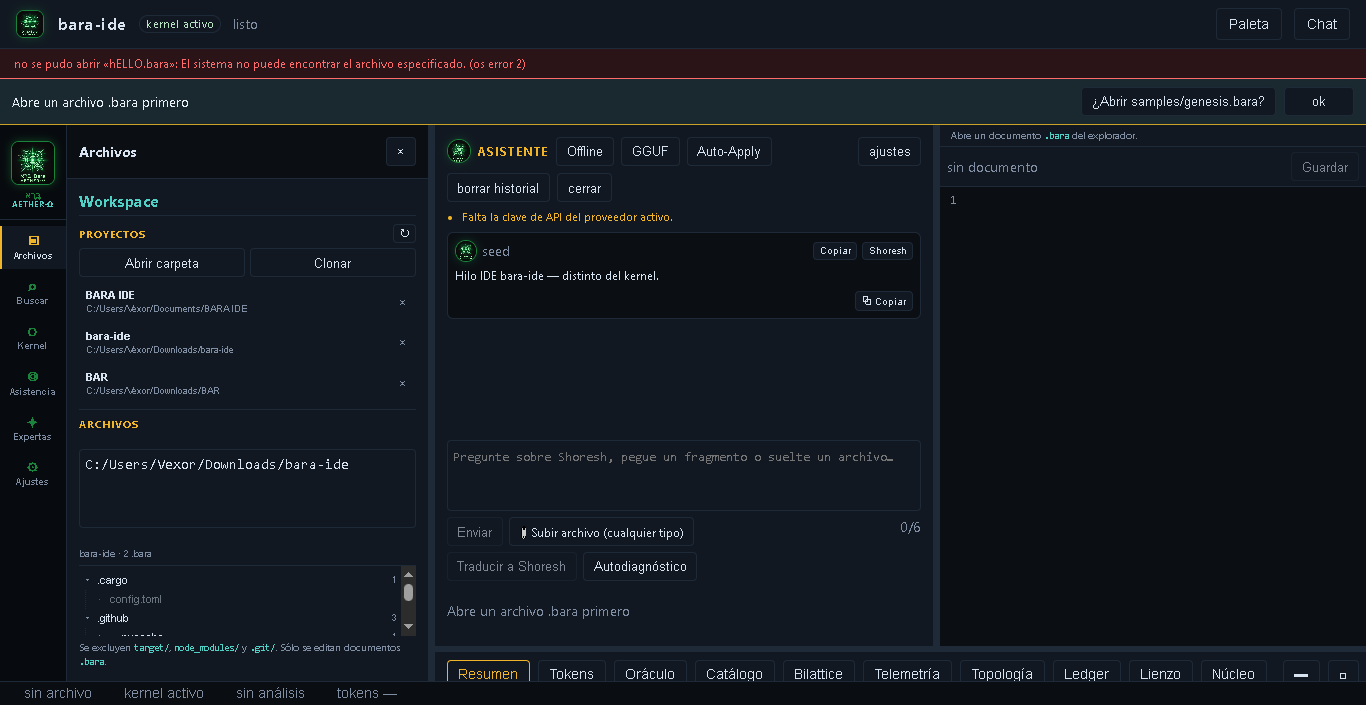
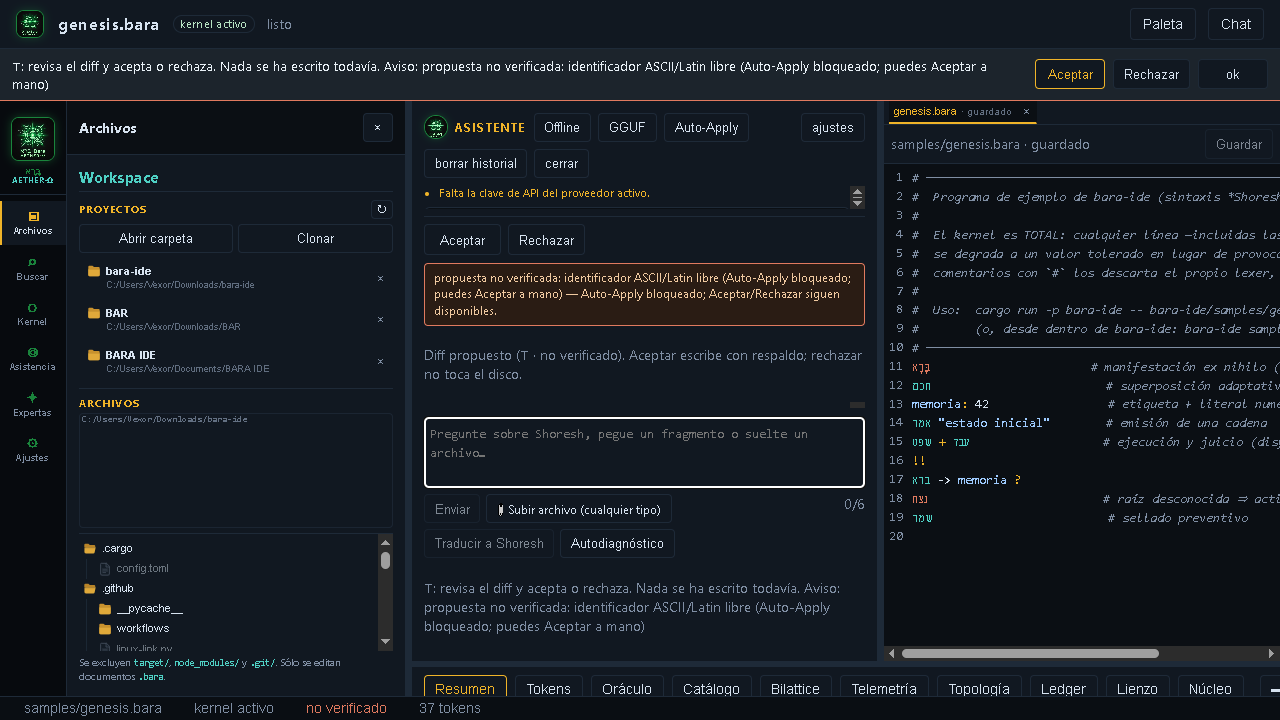
style(workspace): iconos carpeta/archivo al mockup Jose
PROYECTOS y ARCHIVOS usan SVG ámbar/documento en brand/; tipografía y
path secundario alineados al mockup. Capturas Tauri a–d con kernel activo.

diff --git a/web/src/styles.css b/web/src/styles.css
@@ -777,17 +777,37 @@ body,
   display: flex;
   flex-direction: column;
   align-items: flex-start;
-  gap: 1px;
+  gap: 2px;
   text-align: left;
-  padding: 0.35rem 0.45rem;
+  padding: 0.4rem 0.5rem;
   border: 1px solid transparent;
+  border-radius: 4px;
   background: transparent;
   color: var(--text);
-  font-size: 0.75rem;
+  font-size: 0.78rem;
+  line-height: 1.25;
+}
+
+.shelf-main {
+  display: flex;
+  align-items: center;
+  gap: 0.4rem;
+  min-width: 0;
+  width: 100%;
+}
+
+.ws-icon {
+  flex: 0 0 14px;
+  width: 14px;
+  height: 14px;
+  display: block;
+  object-fit: contain;
 }
 
 .shelf-name {
   font-weight: 600;
+  font-size: 0.8rem;
+  letter-spacing: 0.01em;
   max-width: 100%;
   overflow: hidden;
   text-overflow: ellipsis;
@@ -795,11 +815,15 @@ body,
 }
 
 .shelf-path {
-  font-size: 0.65rem;
+  font-size: 0.62rem;
+  line-height: 1.2;
+  padding-left: calc(14px + 0.4rem);
   max-width: 100%;
   overflow: hidden;
   text-overflow: ellipsis;
   white-space: nowrap;
+  opacity: 0.72;
+  color: var(--muted);
 }
 
 .shelf-active,
@@ -832,9 +856,9 @@ body,
 .ws-section-head h2 {
   margin: 0;
   flex: 1;
-  font-size: 0.72rem;
+  font-size: 0.7rem;
   font-weight: 700;
-  letter-spacing: 0.1em;
+  letter-spacing: 0.12em;
   color: var(--accent);
   text-transform: uppercase;
 }
@@ -987,12 +1011,24 @@ body,
 }
 
 .workspace-root {
-  display: flex;
-  gap: 0.3rem;
+  display: block;
+  margin: 0;
+  padding: 0 0.15rem;
+  font-size: 0.62rem;
+  line-height: 1.3;
+  color: var(--muted);
+  opacity: 0.75;
+  overflow: hidden;
+  text-overflow: ellipsis;
+  white-space: nowrap;
+}
+
+.workspace-root.path {
+  font-size: 0.62rem;
 }
 
 .workspace-root .path {
-  font-size: 0.72rem;
+  font-size: 0.62rem;
 }
 
 .workspace-root button {
@@ -1034,22 +1070,23 @@ body,
 }
 
 .file-tree .file-tree {
-  margin-left: 0.45rem;
-  padding-left: 0.4rem;
-  border-left: 1px dotted var(--line);
+  margin-left: 0.55rem;
+  padding-left: 0.45rem;
+  border-left: 1px solid color-mix(in srgb, var(--line) 80%, transparent);
 }
 
 .tree-row {
   display: flex;
   align-items: center;
-  gap: 0.3rem;
+  gap: 0.4rem;
   width: 100%;
-  padding: 0.18rem 0.25rem;
+  padding: 0.22rem 0.3rem;
   border: 0;
-  border-radius: 3px;
+  border-radius: 4px;
   background: transparent;
   color: var(--text);
-  font-size: 0.75rem;
+  font-size: 0.78rem;
+  line-height: 1.25;
   text-align: left;
 }
 
@@ -1063,6 +1100,10 @@ body,
   opacity: 0.45;
 }
 
+.tree-row .ws-icon {
+  flex: 0 0 14px;
+}
+
 .tree-glyph {
   flex: 0 0 0.8rem;
   color: var(--muted);
@@ -1074,7 +1115,11 @@ body,
 }
 
 .tree-file.active {
-  background: #1b2a3b;
+  background: color-mix(in srgb, var(--brand-green) 14%, #1b2a3b);
+  color: var(--text);
+}
+
+.tree-file.active .tree-name {
   color: var(--accent);
 }
 
@@ -1082,6 +1127,7 @@ body,
   overflow: hidden;
   text-overflow: ellipsis;
   white-space: nowrap;
+  font-weight: 500;
 }
 
 .tree-count {

diff --git a/web/src/components/FileTree.tsx b/web/src/components/FileTree.tsx
@@ -7,6 +7,13 @@
 import { useState } from "react";
 
 import { pathKey, pathsEqual } from "../paths";
+import {
+  ICON_FILE,
+  ICON_FILE_BARA,
+  ICON_FOLDER,
+  ICON_FOLDER_OPEN,
+  WorkspaceIcon,
+} from "../shell/WorkspaceIcons";
 import type { WorkspaceEntry } from "../workspace";
 
 interface FileTreeProps {
@@ -67,11 +74,11 @@ function FileTreeNode({ entry, activePath, onOpen, depth }: FileTreeNodeProps) {
           onClick={() => setOpen((current) => !current)}
           title={entry.path}
         >
-          <span className="tree-glyph" aria-hidden="true">
-            {open ? "▾" : "▸"}
-          </span>
+          <WorkspaceIcon
+            src={open ? ICON_FOLDER_OPEN : ICON_FOLDER}
+            label={open ? "Carpeta abierta" : "Carpeta"}
+          />
           <span className="tree-name">{entry.name}</span>
-          <span className="tree-count">{entry.children.length}</span>
         </button>
         {open ? (
           <FileTree
@@ -99,9 +106,10 @@ function FileTreeNode({ entry, activePath, onOpen, depth }: FileTreeNodeProps) {
             : `${entry.path} (sólo los documentos .bara se editan)`
         }
       >
-        <span className="tree-glyph" aria-hidden="true">
-          {entry.bara ? "◈" : "·"}
-        </span>
+        <WorkspaceIcon
+          src={entry.bara ? ICON_FILE_BARA : ICON_FILE}
+          label={entry.bara ? "Documento .bara" : "Archivo"}
+        />
         <span className="tree-name">{entry.name}</span>
       </button>
     </li>

diff --git a/web/src/components/WorkspaceSidebar.tsx b/web/src/components/WorkspaceSidebar.tsx
@@ -11,6 +11,7 @@ import {
   shortPath,
   type RecentProject,
 } from "../projectRecents";
+import { ICON_FOLDER, WorkspaceIcon } from "../shell/WorkspaceIcons";
 import FileTree from "./FileTree";
 import {
   workspaceActivate,
@@ -155,7 +156,10 @@ export default function WorkspaceSidebar({
                     title={slot.path}
                     onClick={() => activate(slot)}
                   >
-                    <span className="shelf-name">{slot.name}</span>
+                    <span className="shelf-main">
+                      <WorkspaceIcon src={ICON_FOLDER} label="Proyecto" />
+                      <span className="shelf-name">{slot.name}</span>
+                    </span>
                     <span className="shelf-path muted">{shortPath(slot.path)}</span>
                   </button>
                   <button
@@ -195,14 +199,9 @@ export default function WorkspaceSidebar({
           {root ? shortPath(root, 52) : "Sin carpeta activa"}
         </p>
 
-        {tree ? (
-          <p className="workspace-meta" title={tree.root}>
-            {tree.name} · {tree.files} .bara
-            {tree.truncated ? " · vista recortada" : ""}
-          </p>
-        ) : (
-          <p className="workspace-meta">Sin explorador cargado.</p>
-        )}
+        {tree?.truncated ? (
+          <p className="workspace-meta">Vista recortada</p>
+        ) : null}
 
         <div className="workspace-tree">
           {loading ? (

diff --git a/web/src/shell/WorkspaceIcons.tsx b/web/src/shell/WorkspaceIcons.tsx
@@ -1,0 +1,30 @@
+/** Iconos del explorador Workspace (mockup Jose: carpeta ámbar + archivo). */
+
+const BRAND = "/brand";
+
+export const ICON_FOLDER = `${BRAND}/icon-folder.svg`;
+export const ICON_FOLDER_OPEN = `${BRAND}/icon-folder-open.svg`;
+export const ICON_FILE_BARA = `${BRAND}/icon-file-bara.svg`;
+export const ICON_FILE = `${BRAND}/icon-file.svg`;
+
+interface WorkspaceIconProps {
+  src: string;
+  label: string;
+  className?: string;
+}
+
+/** Pictograma 16×16 alineado al texto de filas del shelf/árbol. */
+export function WorkspaceIcon({ src, label, className }: WorkspaceIconProps) {
+  return (
+    <img
+      src={src}
+      alt=""
+      width={14}
+      height={14}
+      draggable={false}
+      className={className ?? "ws-icon"}
+      aria-hidden="true"
+      title={label}
+    />
+  );
+}
